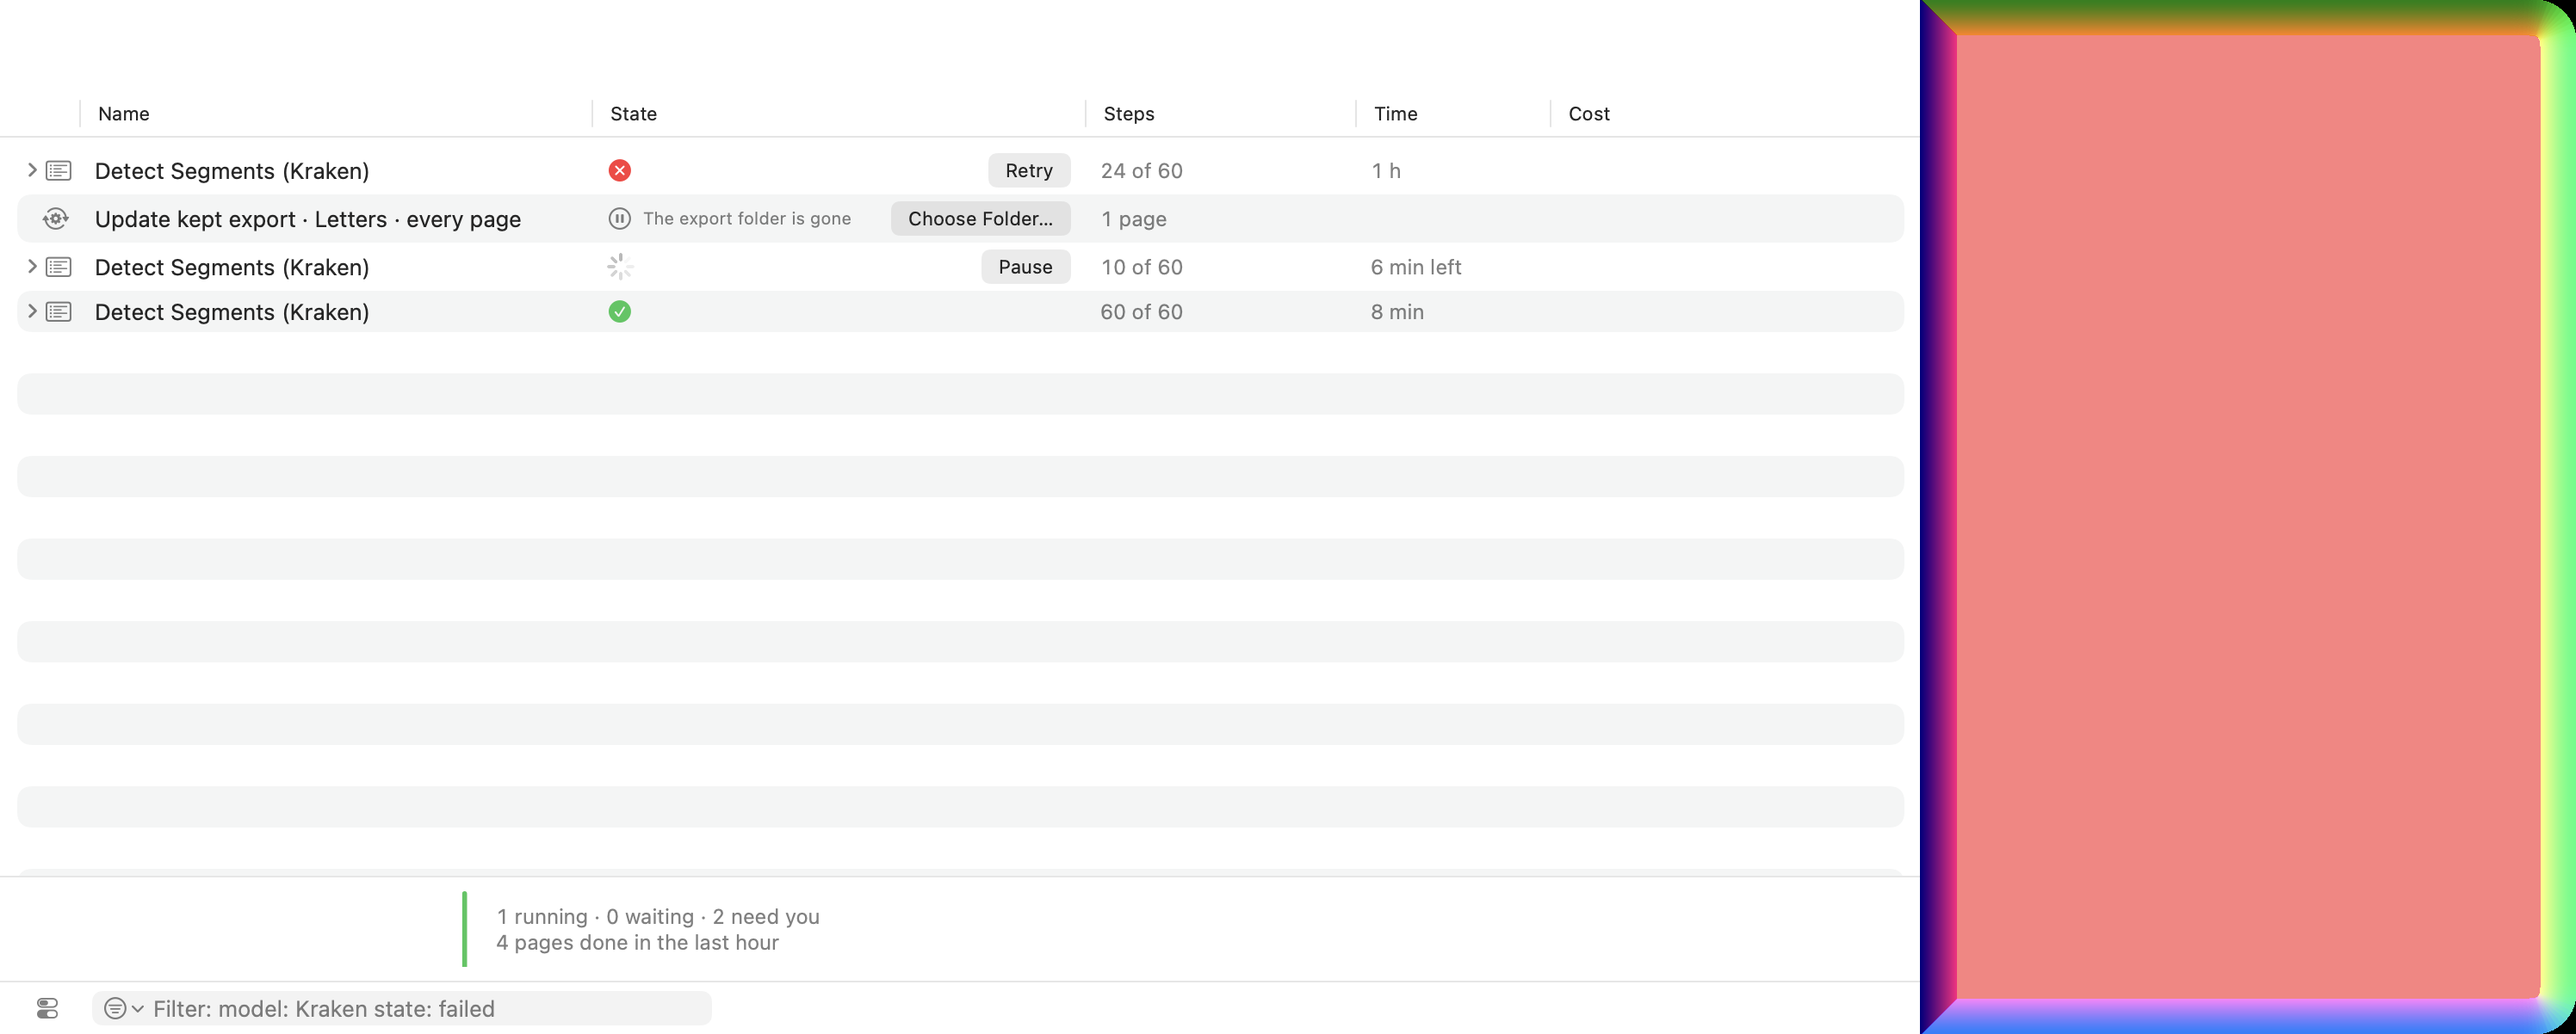
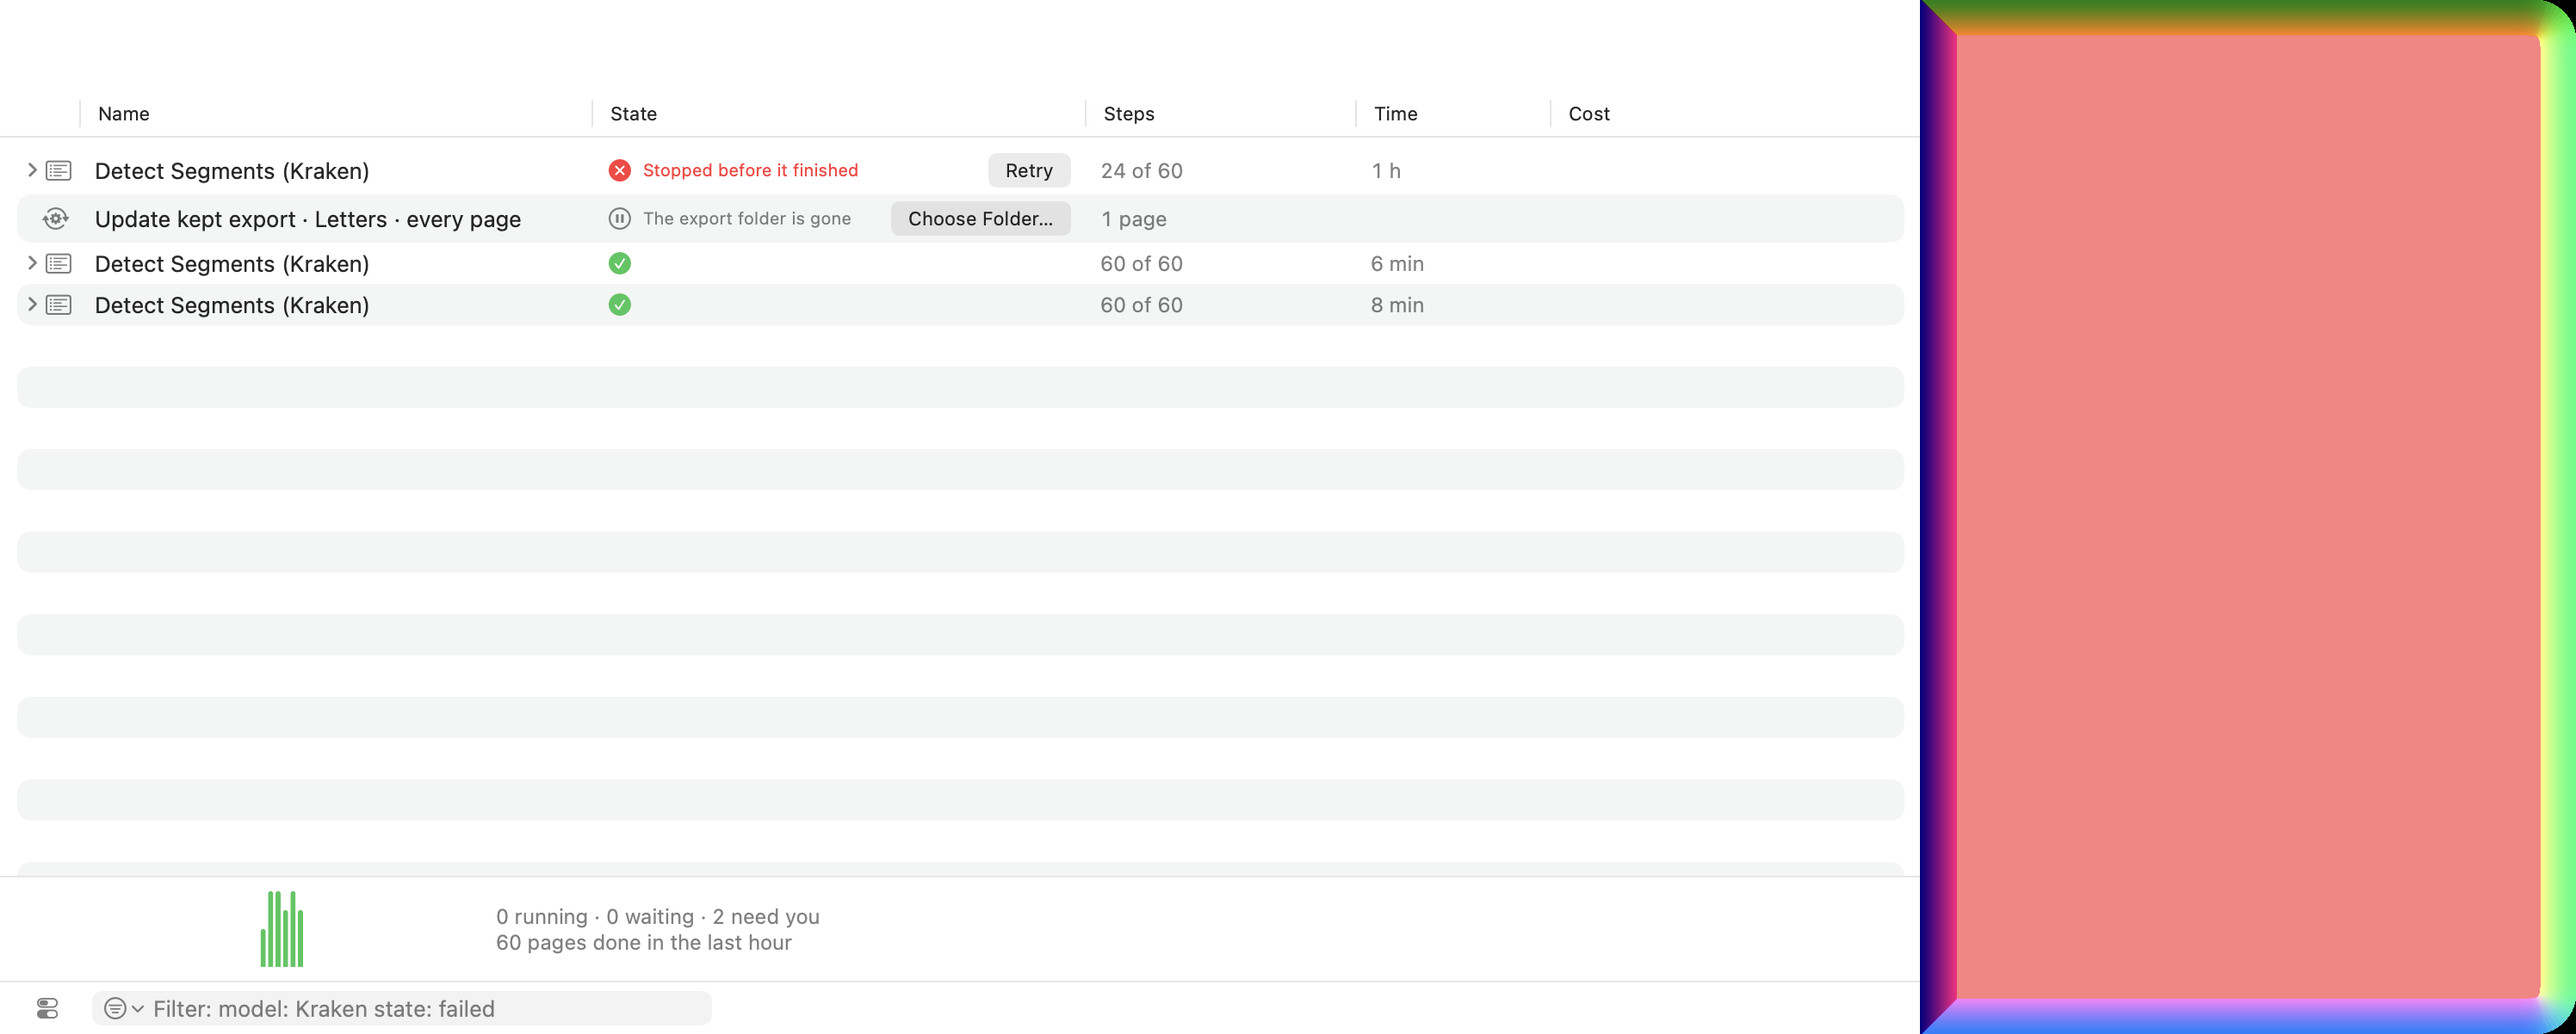
fix(activity): a failed run row takes its failure from its twin in the jobs list, so it says why in its row ("Stopped before it finished") beside its Retry (#6588)
The pane lists a run from the runs list, which has no failure, and drops its job twin, which has it. ActivityPane.withRunFailures
gives the run row the twin's failure and row words. Before: a red X and Retry, no words. After:
docs/assets/activity-pane/window-live.png. Test: ActivityErrorRowTests.runRowTakesItsJobsFailure.

Written-By: Claude

diff --git a/fichero/fichero/Views/Activity/Pane/ActivityPane.swift b/fichero/fichero/Views/Activity/Pane/ActivityPane.swift
@@ -69,6 +69,22 @@ enum ActivityPane {
         return Set(rows.filter { row in row.selection.map(asked.contains) ?? false }.map(\.id))
     }
 
+    /// A run row is listed from the runs list, and its twin in the jobs list carries the engine's failure (its row words, its
+    /// fix, its buttons): the run row takes it, so a failed run says why in its row, not a bare red X (#6588).
+    static func withRunFailures(_ rows: [ActivityMonitorRow], jobs: [ActivityJob]) -> [ActivityMonitorRow] {
+        let failures = Dictionary(jobs.compactMap { job in job.failure.map { (job.id, $0) } }, uniquingKeysWith: { first, _ in first })
+        guard !failures.isEmpty else { return rows }
+        return rows.map { row in
+            guard row.kind == .run, row.failure == nil, let id = row.runThreadId ?? row.jobId, let failure = failures[id] else {
+                return row
+            }
+            var row = row
+            row.failure = failure
+            if !failure.rowWords.isEmpty { row.reason = failure.rowWords }
+            return row
+        }
+    }
+
     /// A job of its own opens to the files it works on NOW (`activity.pane.children-are-what-it-works-on`, #6599): a queue
     /// row's (`waiting:<kind>`) children are its items in flight, by name; none in flight, no disclosure.
     static func withQueuedFiles(_ rows: [ActivityMonitorRow], queued: [String: [ActivityQueuedItem]]) -> [ActivityMonitorRow] {

diff --git a/fichero/Tests/Unit/general/Models/ActivityErrorRowTests.swift b/fichero/Tests/Unit/general/Models/ActivityErrorRowTests.swift
@@ -69,4 +69,18 @@ struct ActivityErrorRowTests {
                                           actions: ["open-settings"], rowWords: "Out of credit at OpenRouter")
         #expect(ActivityMonitorRow.job(job, libraryId: nil, projectName: nil).reason == "Out of credit at OpenRouter")
     }
+
+    /// #6588: a failed run is listed from the runs list without the engine's failure; its twin in the jobs list has it.
+    @Test("a failed run row takes its failure from its job twin: its row words and its Retry")
+    func runRowTakesItsJobsFailure() {
+        var run = ActivityPaneFixture.row("thread-1", .failed, kind: .run)
+        run.reason = "Interrupted: the project was closed at 22:58, before this run finished"
+        var job = ActivityJob(id: "thread-1", taskType: "workflow", name: "Detect", state: .failed, reason: run.reason)
+        job.failure = ActivityJob.Failure(kind: "interrupted", words: "The run stopped before it finished.",
+                                          fix: "Run it again.", actions: ["retry"], rowWords: "Stopped before it finished")
+        let row = ActivityPane.withRunFailures([run], jobs: [job]).first
+        #expect(row?.failure?.kind == "interrupted")
+        #expect(row?.reason == "Stopped before it finished")
+        #expect(row.map(ActivityPane.stateLine) == "Stopped before it finished", "the row says why in its eight words")
+    }
 }

diff --git a/fichero/fichero/Views/Activity/Pane/ActivityPaneView.swift b/fichero/fichero/Views/Activity/Pane/ActivityPaneView.swift
@@ -70,12 +70,13 @@ struct ActivityPaneView: View {
     var allRows: [ActivityMonitorRow] {
         let rows = libraries.flatMap { library in
             let store = library.activityStore
-            return ActivityPane.withQueuedFiles(ActivityMonitorRow.group(
+            let jobs = store.liveJobs + store.historyJobs
+            return ActivityPane.withRunFailures(ActivityPane.withQueuedFiles(ActivityMonitorRow.group(
                 libraryId: library.id, libraryName: library.displayName,
                 isMac: library.id == libraryManager.globalLibrary?.id,
                 runRows: store.runs.map { .run($0, tree: store.runTrees[$0.threadId ?? $0.runId]) },
-                jobs: store.liveJobs + store.historyJobs
-            ).rows, queued: store.queuedItems)
+                jobs: jobs
+            ).rows, queued: store.queuedItems), jobs: jobs)
         }
         // A run seen as a job of its own as well is listed once, as the run.
         let runJobs = Set(rows.filter { $0.kind == .run }.compactMap(\.jobId))
